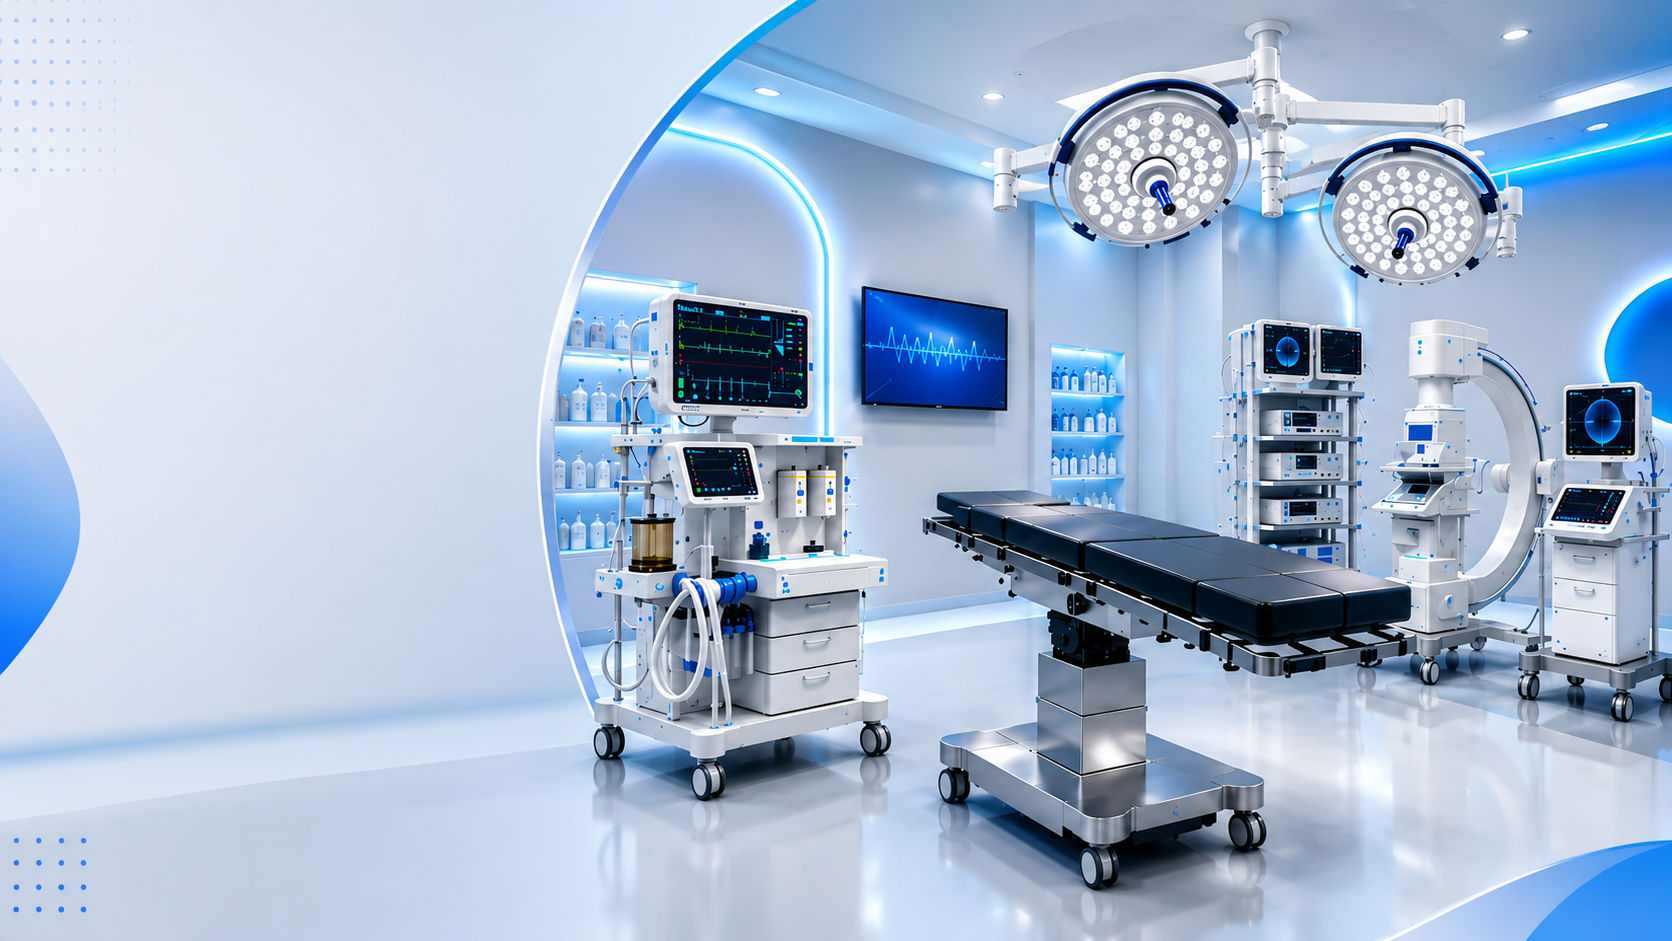
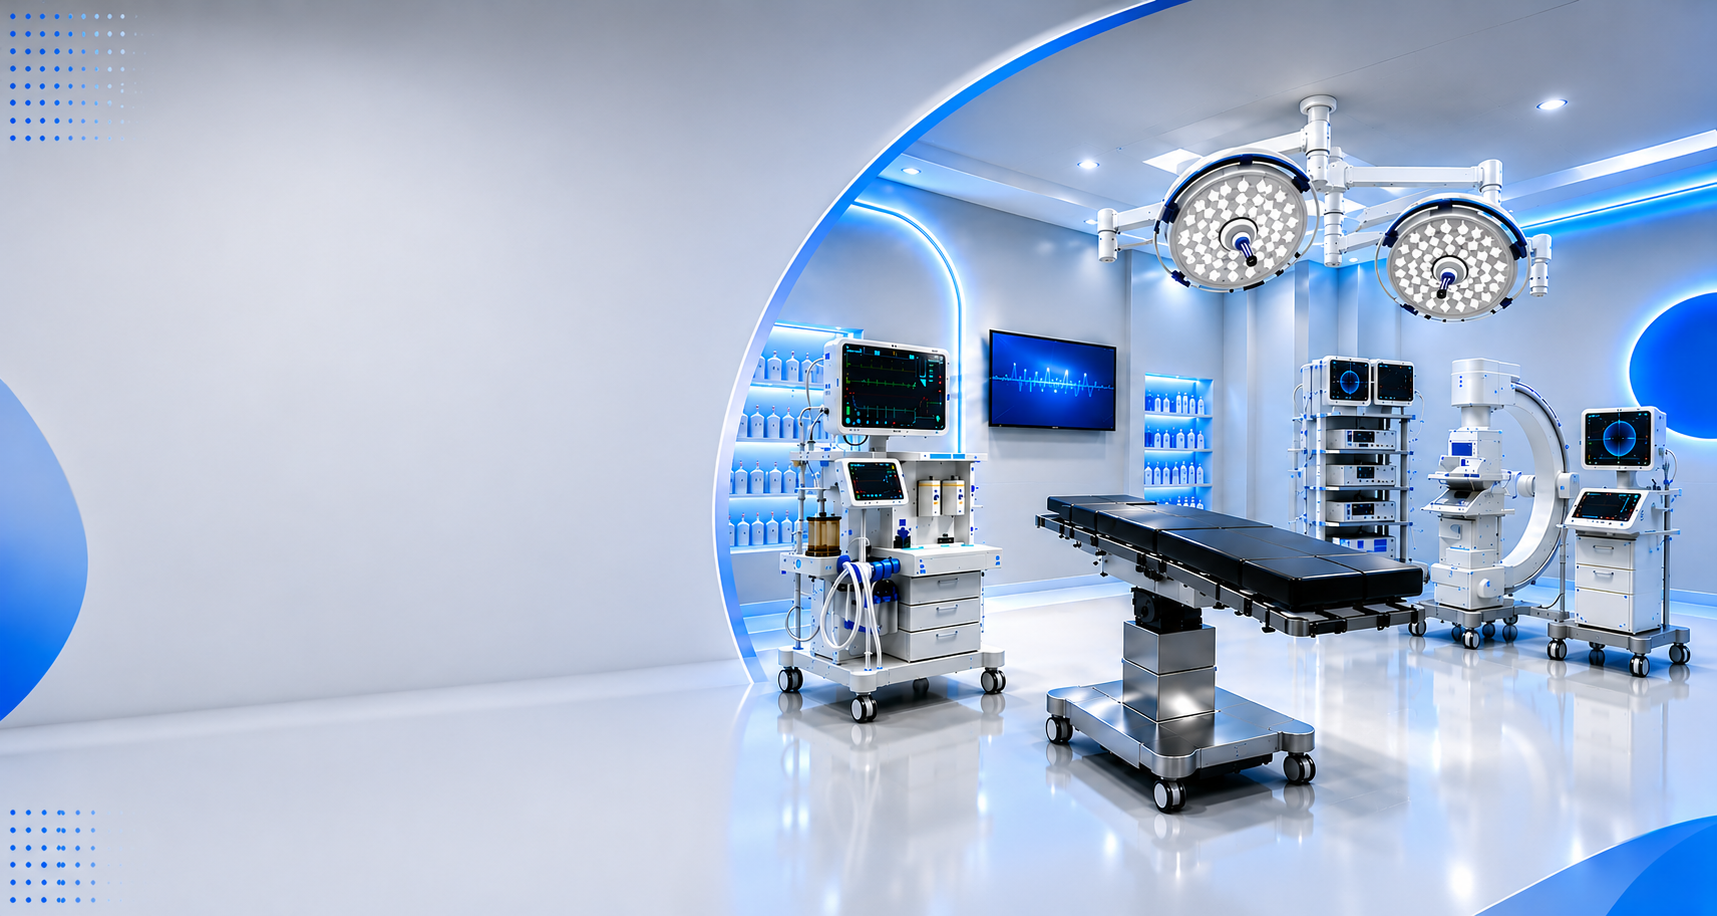
Horo section Background image changes

diff --git a/src/components/HomeView.tsx b/src/components/HomeView.tsx
@@ -358,7 +358,7 @@ export default function HomeView({ onOpenProductModal, showPreloader = false }: 
   return (
     <div className="bg-white min-h-screen font-sans">
       {/* 1. HERO SECTION */}
-      <section className="ipad-pro-hero-section relative h-[82vh] lg:h-auto w-full flex flex-col md:flex-row items-stretch md:items-center bg-slate-50 overflow-hidden pt-11 pb-4 md:pt-[96px] md:pb-12 lg:pt-[120px] lg:pb-16 xl:pt-[140px] xl:pb-20">
+      <section className="ipad-pro-hero-section relative h-[82vh] lg:h-auto xl:h-[100dvh] w-full flex flex-col md:flex-row items-stretch md:items-center bg-slate-50 overflow-hidden pt-11 pb-4 md:pt-[96px] md:pb-12 lg:pt-[120px] lg:pb-16 xl:pt-[72px] xl:pb-6">
         {/* Background with zoom and fade in effect */}
         <motion.div
           initial={{ opacity: 0, scale: 1 }}
@@ -393,30 +393,29 @@ export default function HomeView({ onOpenProductModal, showPreloader = false }: 
         <div className="max-w-7xl mx-auto px-4 sm:px-8 lg:px-10 xl:px-10 w-full z-20 relative flex flex-col justify-stretch h-full">
           <div className="grid grid-cols-1 md:grid-cols-12 gap-8 items-center h-full w-full">
             {/* Left Side (45% on desktop xl, 58% on tablet/medium desktop) */}
-            <div className="ipad-pro-left-side col-span-1 md:col-span-12 xl:col-span-5 flex flex-col justify-between md:justify-between lg:justify-start h-full md:h-full lg:h-auto text-center md:text-center xl:text-left text-slate-900 translate-y-0 md:translate-y-0 lg:translate-x-0 lg:translate-y-0 xl:-translate-x-36 xl:-translate-y-20">
+            <div className="ipad-pro-left-side col-span-1 md:col-span-12 xl:col-span-5 flex flex-col justify-between md:justify-between lg:justify-start xl:justify-start h-full md:h-full lg:h-auto text-center md:text-center xl:text-left text-slate-900 translate-y-0 md:translate-y-0 lg:translate-x-0 lg:translate-y-0 xl:translate-x-0 xl:-translate-y-6">
               <motion.div
                 initial="hidden"
                 animate={showPreloader ? "hidden" : "visible"}
                 variants={heroContainerVariants}
-                className="ipad-pro-motion-container flex flex-col items-center md:items-center xl:items-start text-center md:text-center xl:text-left text-slate-900 justify-between md:justify-between lg:justify-start h-full md:h-full lg:h-auto w-full gap-y-[clamp(12px,2.5vw,20px)] md:gap-y-0"
+                className="ipad-pro-motion-container flex flex-col items-center md:items-center xl:items-start text-center md:text-center xl:text-left text-slate-900 justify-between md:justify-between lg:justify-start xl:justify-start h-full md:h-full lg:h-auto w-full gap-y-[clamp(12px,2.5vw,20px)] md:gap-y-0 xl:gap-y-5"
               >
                 {/* Top Group: Text & Buttons */}
-                <div className="ipad-pro-top-group flex flex-col items-center md:items-center xl:items-start text-center md:text-center xl:text-left gap-y-[clamp(8px,1.8vw,16px)] md:gap-y-0 w-full mt-1 sm:mt-0 -translate-y-12 md:-translate-y-24 lg:-translate-y-[120px] xl:-translate-y-6">
+                <div className="ipad-pro-top-group flex flex-col items-center md:items-center xl:items-start text-center md:text-center xl:text-left gap-y-[clamp(8px,1.8vw,16px)] md:gap-y-0 xl:gap-y-4 w-full mt-1 sm:mt-0 -translate-y-12 md:-translate-y-24 lg:-translate-y-[120px] xl:-translate-y-14">
                   {/* Badge */}
-                  <motion.div variants={heroItemVariants} className="w-full text-center md:text-center xl:text-left translate-y-1 md:translate-y-2 lg:translate-y-0">
-                    <span className="inline-block bg-gradient-to-r from-blue-600 via-sky-500 to-amber-500 text-white text-[8.5px] md:text-[13px] lg:text-[18px] xl:text-[13px] font-black tracking-widest px-2.5 py-0.5 md:px-3 md:py-1 rounded-full uppercase shadow-lg shadow-blue-500/20 animate-pulse">
+                  <motion.div variants={heroItemVariants} className="w-full text-center md:text-center xl:text-left translate-y-1 md:translate-y-2 lg:translate-y-0 xl:translate-y-0">
+                    <span className="inline-block bg-gradient-to-r from-blue-600 via-sky-500 to-amber-500 text-white text-[8.5px] md:text-[13px] lg:text-[18px] xl:text-[13.5px] font-black tracking-widest px-2.5 py-0.5 md:px-3 md:py-1 rounded-full uppercase shadow-lg shadow-blue-500/20 animate-pulse">
                       Clinical Sourcing Excellence
                     </span>
                   </motion.div>
                   {/* Heading */}
                   <motion.h1
                     variants={heroItemVariants}
-                    className="text-[clamp(1.25rem,3.2vw+0.5rem,2.75rem)] md:text-[2.5rem] lg:text-[3.4rem] xl:text-[2.35rem] font-black tracking-tight leading-[1.15] text-slate-900 max-w-[680px] md:max-w-[780px] xl:max-w-[680px] w-full text-center md:text-center xl:text-left mt-3 md:mt-4 lg:mt-3 xl:mt-6"
+                    className="text-[clamp(1.25rem,3.2vw+0.5rem,2.75rem)] md:text-[2.5rem] lg:text-[3.4rem] xl:text-[2.65rem] font-black tracking-tight leading-[1.15] text-slate-900 max-w-[680px] md:max-w-[780px] xl:max-w-[720px] w-full text-center md:text-center xl:text-left mt-3 md:mt-4 lg:mt-3 xl:mt-2"
                   >
-                    <span className="sm:whitespace-nowrap xl:whitespace-normal">
-                      Transforming
+                    <span className="whitespace-nowrap">
+                      Transforming{" "}
                     </span>
-                    <br className="hidden xl:inline" />
                     <AnimatedText
                       asSpan
                       text="Healthcare"
@@ -431,7 +430,7 @@ export default function HomeView({ onOpenProductModal, showPreloader = false }: 
                   {/* Description */}
                   <motion.p
                     variants={heroItemVariants}
-                    className="text-[clamp(11px,1.2vw+8px,14px)] md:text-[17px] lg:text-[22px] xl:text-base text-slate-650 leading-relaxed font-semibold max-w-[520px] md:max-w-[680px] xl:max-w-[520px] w-full text-center md:text-center xl:text-left mt-3 md:mt-4 lg:mt-4 xl:mt-7"
+                    className="text-[clamp(11px,1.2vw+8px,14px)] md:text-[17px] lg:text-[22px] xl:text-lg text-slate-650 leading-relaxed font-semibold max-w-[520px] md:max-w-[680px] xl:max-w-[560px] w-full text-center md:text-center xl:text-left mt-3 md:mt-4 lg:mt-4 xl:mt-2"
                   >
                     Vel Bio Med delivers high-caliber diagnostics and life-support machinery to premium hospitals.
                   </motion.p>
@@ -439,7 +438,7 @@ export default function HomeView({ onOpenProductModal, showPreloader = false }: 
                   {/* CTA Buttons */}
                   <motion.div
                     variants={heroItemVariants}
-                    className="flex flex-row justify-center md:justify-center xl:justify-start gap-3 sm:gap-4 w-full mt-[clamp(6px,2vw,20px)] md:mt-5 lg:mt-5 xl:mt-9"
+                    className="flex flex-row justify-center md:justify-center xl:justify-start gap-3 sm:gap-4 w-full mt-[clamp(6px,2vw,20px)] md:mt-5 lg:mt-5 xl:mt-5"
                   >
                     <motion.button
                       whileHover={{
@@ -449,7 +448,7 @@ export default function HomeView({ onOpenProductModal, showPreloader = false }: 
                       }}
                       whileTap={{ scale: 0.98 }}
                       onClick={() => setCurrentTab("products")}
-                      className="bg-blue-600 hover:bg-blue-700 text-white font-bold text-[10px] md:text-[clamp(10px,0.8vw+8px,12px)] py-2 px-3 sm:px-6 rounded-lg transition-all flex items-center justify-center gap-1.5 uppercase tracking-wider cursor-pointer border-none h-9 md:h-[clamp(38px,1vw+34px,44px)] flex-1 sm:flex-initial max-w-[180px] sm:max-w-none"
+                      className="bg-blue-600 hover:bg-blue-700 text-white font-bold text-[10px] md:text-[clamp(10px,0.8vw+8px,12px)] xl:text-sm py-2 px-3 sm:px-6 xl:px-7 rounded-lg transition-all flex items-center justify-center gap-1.5 uppercase tracking-wider cursor-pointer border-none h-9 md:h-[clamp(38px,1vw+34px,44px)] xl:h-12 flex-1 sm:flex-initial max-w-[180px] sm:max-w-none"
                     >
                       Explore Products <ArrowRight className="w-4 h-4" />
                     </motion.button>
@@ -461,7 +460,7 @@ export default function HomeView({ onOpenProductModal, showPreloader = false }: 
                       }}
                       whileTap={{ scale: 0.98 }}
                       onClick={() => setCurrentTab("contact")}
-                      className="bg-white border border-slate-200 text-blue-600 hover:bg-slate-50 font-bold text-[10px] md:text-[clamp(10px,0.8vw+8px,12px)] py-2 px-3 sm:px-6 rounded-lg transition-all flex items-center justify-center gap-1.5 uppercase tracking-wider cursor-pointer h-9 md:h-[clamp(38px,1vw+34px,44px)] flex-1 sm:flex-initial max-w-[180px] sm:max-w-none"
+                      className="bg-white border border-slate-200 text-blue-600 hover:bg-slate-50 font-bold text-[10px] md:text-[clamp(10px,0.8vw+8px,12px)] xl:text-sm py-2 px-3 sm:px-6 xl:px-7 rounded-lg transition-all flex items-center justify-center gap-1.5 uppercase tracking-wider cursor-pointer h-9 md:h-[clamp(38px,1vw+34px,44px)] xl:h-12 flex-1 sm:flex-initial max-w-[180px] sm:max-w-none"
                     >
                       <PhoneCall className="w-4 h-4 text-blue-600" /> Contact Us
                     </motion.button>
@@ -471,7 +470,7 @@ export default function HomeView({ onOpenProductModal, showPreloader = false }: 
                 {/* Statistics Cards */}
                 <motion.div
                   variants={heroItemVariants}
-                  className="ipad-pro-cards-container grid grid-cols-2 md:grid-cols-4 gap-[clamp(8px,1.8vw,14px)] w-full md:mx-auto xl:mx-0 mt-[clamp(10px,2vw,16px)] md:mt-2 lg:mt-3 xl:mt-4 pt-2 xs:pt-3 sm:pt-4 justify-items-center -translate-y-12 md:translate-y-4 lg:-translate-y-4"
+                  className="ipad-pro-cards-container grid grid-cols-2 md:grid-cols-4 gap-[clamp(8px,1.8vw,14px)] xl:gap-3.5 w-full md:mx-auto xl:mx-0 mt-[clamp(10px,2vw,16px)] md:mt-2 lg:mt-3 xl:mt-2 pt-2 xs:pt-3 sm:pt-4 xl:pt-0 justify-items-center -translate-y-12 md:translate-y-4 lg:-translate-y-4 xl:-translate-y-6 xl:-translate-x-6"
                 >
                   {[
                     { target: 16, suffix: "+", label: "Years Exp.", icon: Award, color: "text-blue-600", iconBg: "bg-blue-50", border: "border-blue-100/40 hover:border-orange-200/60", glow: "from-blue-500/5" },
@@ -483,15 +482,15 @@ export default function HomeView({ onOpenProductModal, showPreloader = false }: 
                     return (
                       <div
                         key={idx}
-                        className={`flex flex-col items-center justify-center text-center gap-1 py-1.5 md:py-5 lg:py-6 xl:py-[clamp(10px,2vw+2px,16px)] px-1 md:px-4 lg:px-5 xl:px-[clamp(4px,1vw+2px,8px)] rounded-xl border ${m.border} bg-gradient-to-br from-blue-500/8 via-white/80 to-orange-500/8 backdrop-blur-[3px] sm:backdrop-blur-sm shadow-[0_1px_8px_rgba(0,0,0,0.05)] hover:shadow-[0_3px_14px_rgba(0,0,0,0.09)] hover:scale-[1.02] transition-all duration-200 w-full max-w-[95px] xs:max-w-[110px] md:max-w-none md:w-[170px] md:h-[150px] lg:w-[190px] lg:h-[170px] xl:w-full xl:max-w-none xl:h-auto`}
+                        className={`flex flex-col items-center justify-center text-center gap-1 py-1.5 md:py-5 lg:py-6 xl:py-3.5 px-1 md:px-4 lg:px-5 xl:px-2 rounded-xl border ${m.border} bg-gradient-to-br from-blue-500/8 via-white/80 to-orange-500/8 backdrop-blur-[3px] sm:backdrop-blur-sm shadow-[0_1px_8px_rgba(0,0,0,0.05)] hover:shadow-[0_3px_14px_rgba(0,0,0,0.09)] hover:scale-[1.02] transition-all duration-200 w-full max-w-[95px] xs:max-w-[110px] md:max-w-none md:w-[170px] md:h-[150px] lg:w-[190px] lg:h-[170px] xl:w-full xl:max-w-none xl:h-auto`}
                       >
-                        <div className={`w-6 h-6 xs:w-7 xs:h-7 md:w-11 md:h-11 lg:w-12 lg:h-12 xl:w-[clamp(30px,2.8vw+14px,38px)] h-6 xs:h-7 md:h-11 lg:h-12 xl:h-[clamp(30px,2.8vw+14px,38px)] flex items-center justify-center rounded-lg xs:rounded-xl ${m.iconBg} border border-white/90 shadow-sm`}>
-                          <IconComponent className={`w-3.5 h-3.5 md:w-5 md:h-5 lg:w-6 lg:h-6 xl:w-[clamp(15px,1.2vw+8px,18px)] h-3.5 md:h-5 lg:h-6 xl:h-[clamp(15px,1.2vw+8px,18px)] ${m.color}`} strokeWidth={2} />
+                        <div className={`w-6 h-6 xs:w-7 xs:h-7 md:w-11 md:h-11 lg:w-12 lg:h-12 xl:w-9 xl:h-9 flex items-center justify-center rounded-lg xs:rounded-xl ${m.iconBg} border border-white/90 shadow-sm`}>
+                          <IconComponent className={`w-3.5 h-3.5 md:w-5 md:h-5 lg:w-6 lg:h-6 xl:w-4.5 xl:h-4.5 ${m.color}`} strokeWidth={2} />
                         </div>
-                        <p className="text-[11px] xs:text-[13px] md:text-xl lg:text-2xl xl:text-[clamp(15px,1.8vw+8px,20px)] font-black text-slate-800 tracking-tight leading-none mt-1">
+                        <p className="text-[11px] xs:text-[13px] md:text-xl lg:text-2xl xl:text-lg font-black text-slate-800 tracking-tight leading-none mt-1">
                           <AnimatedCounter target={m.target} suffix={m.suffix} duration={2000} startSignal={!showPreloader} />
                         </p>
-                        <p className="text-[6.5px] xs:text-[7.5px] md:text-[11px] lg:text-[12px] xl:text-[clamp(8px,0.7vw+6px,9.5px)] font-bold text-slate-400 uppercase tracking-wider leading-none mt-0.5">
+                        <p className="text-[6.5px] xs:text-[7.5px] md:text-[11px] lg:text-[12px] xl:text-[9.5px] font-bold text-slate-400 uppercase tracking-wider leading-none mt-0.5">
                           {m.label}
                         </p>
                       </div>

diff --git a/src/index.css b/src/index.css
@@ -595,6 +595,6 @@
 /* Desktop View Specific Adjustments */
 @media (min-width: 1280px) {
   .mobile-hero-bg-img {
-    object-position: 54% 80% !important;
+    object-position: center center !important;
   }
 }
